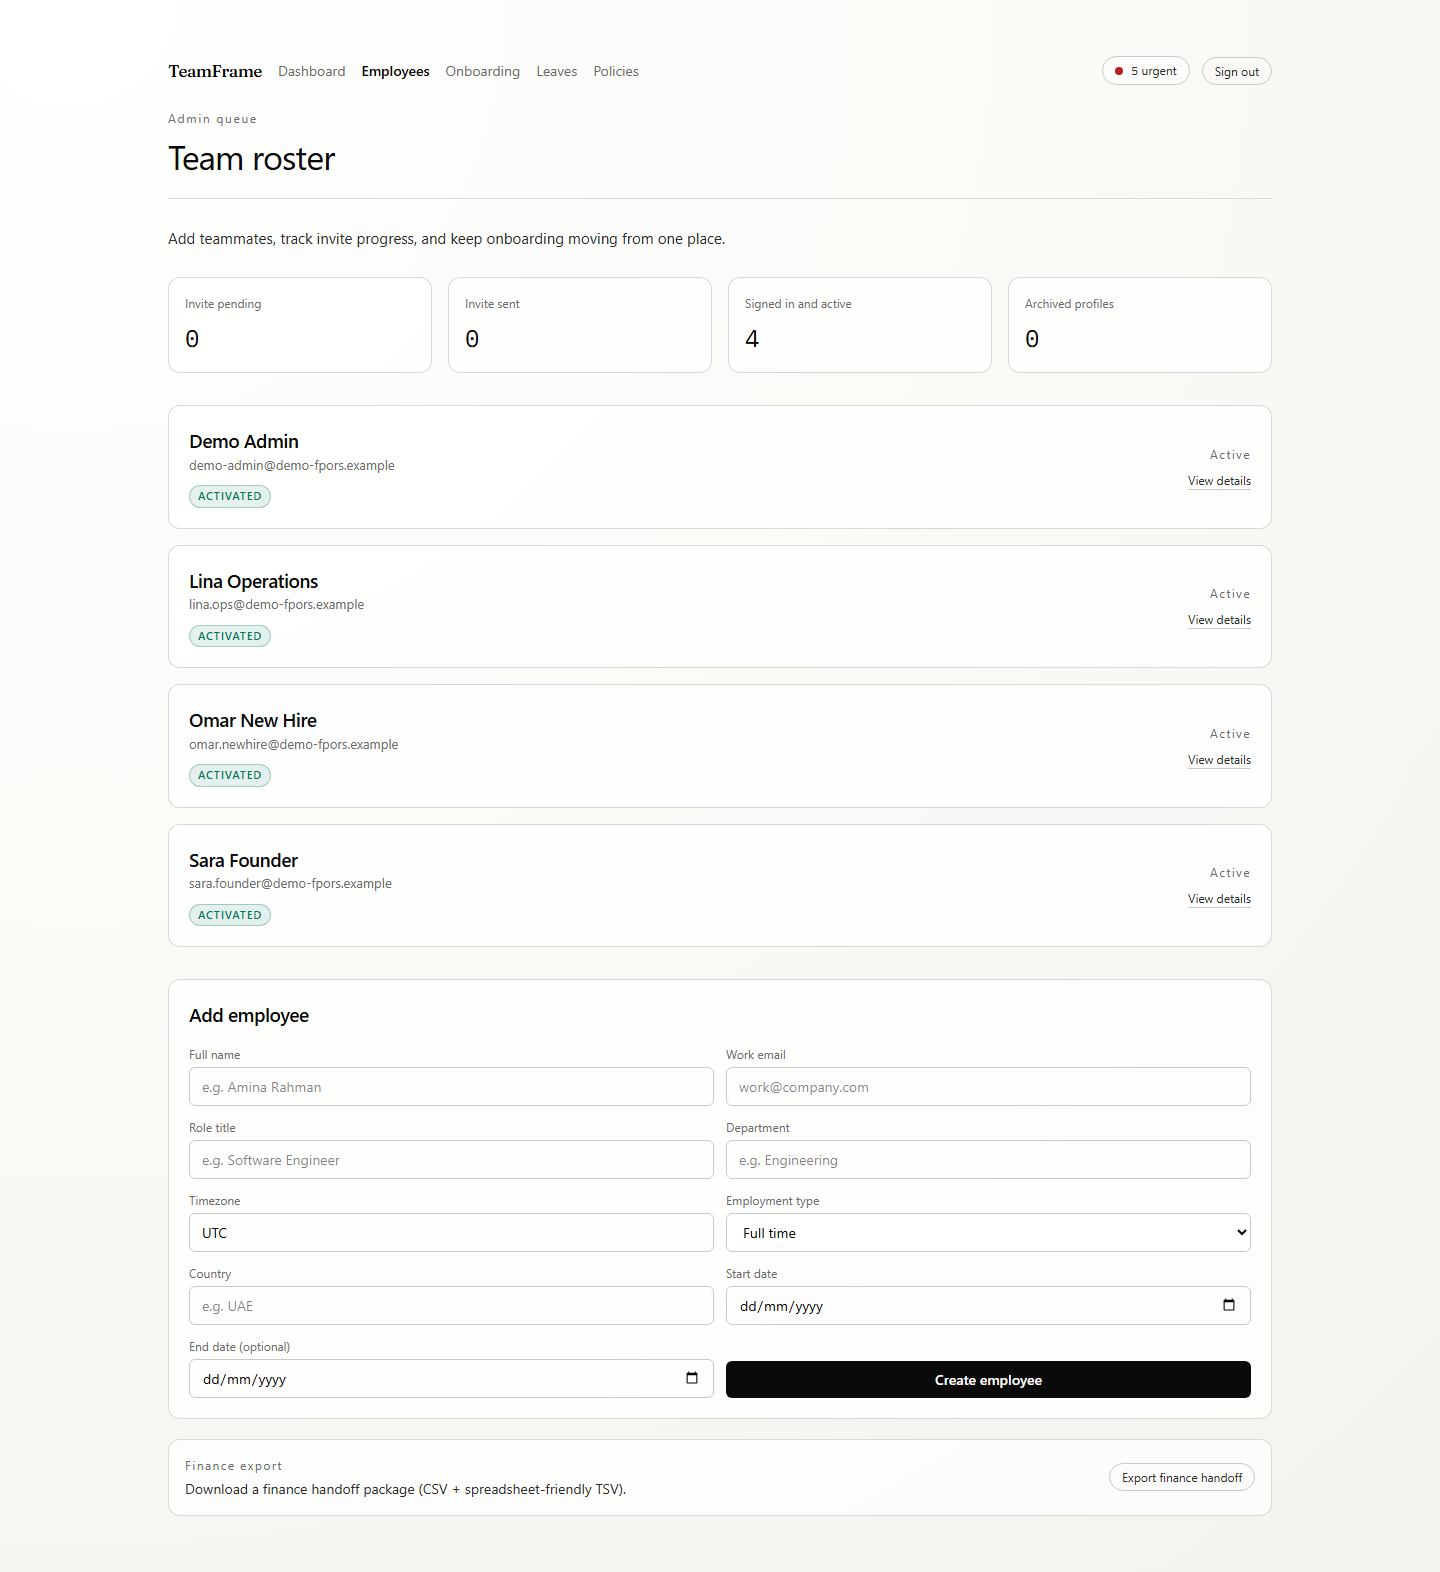
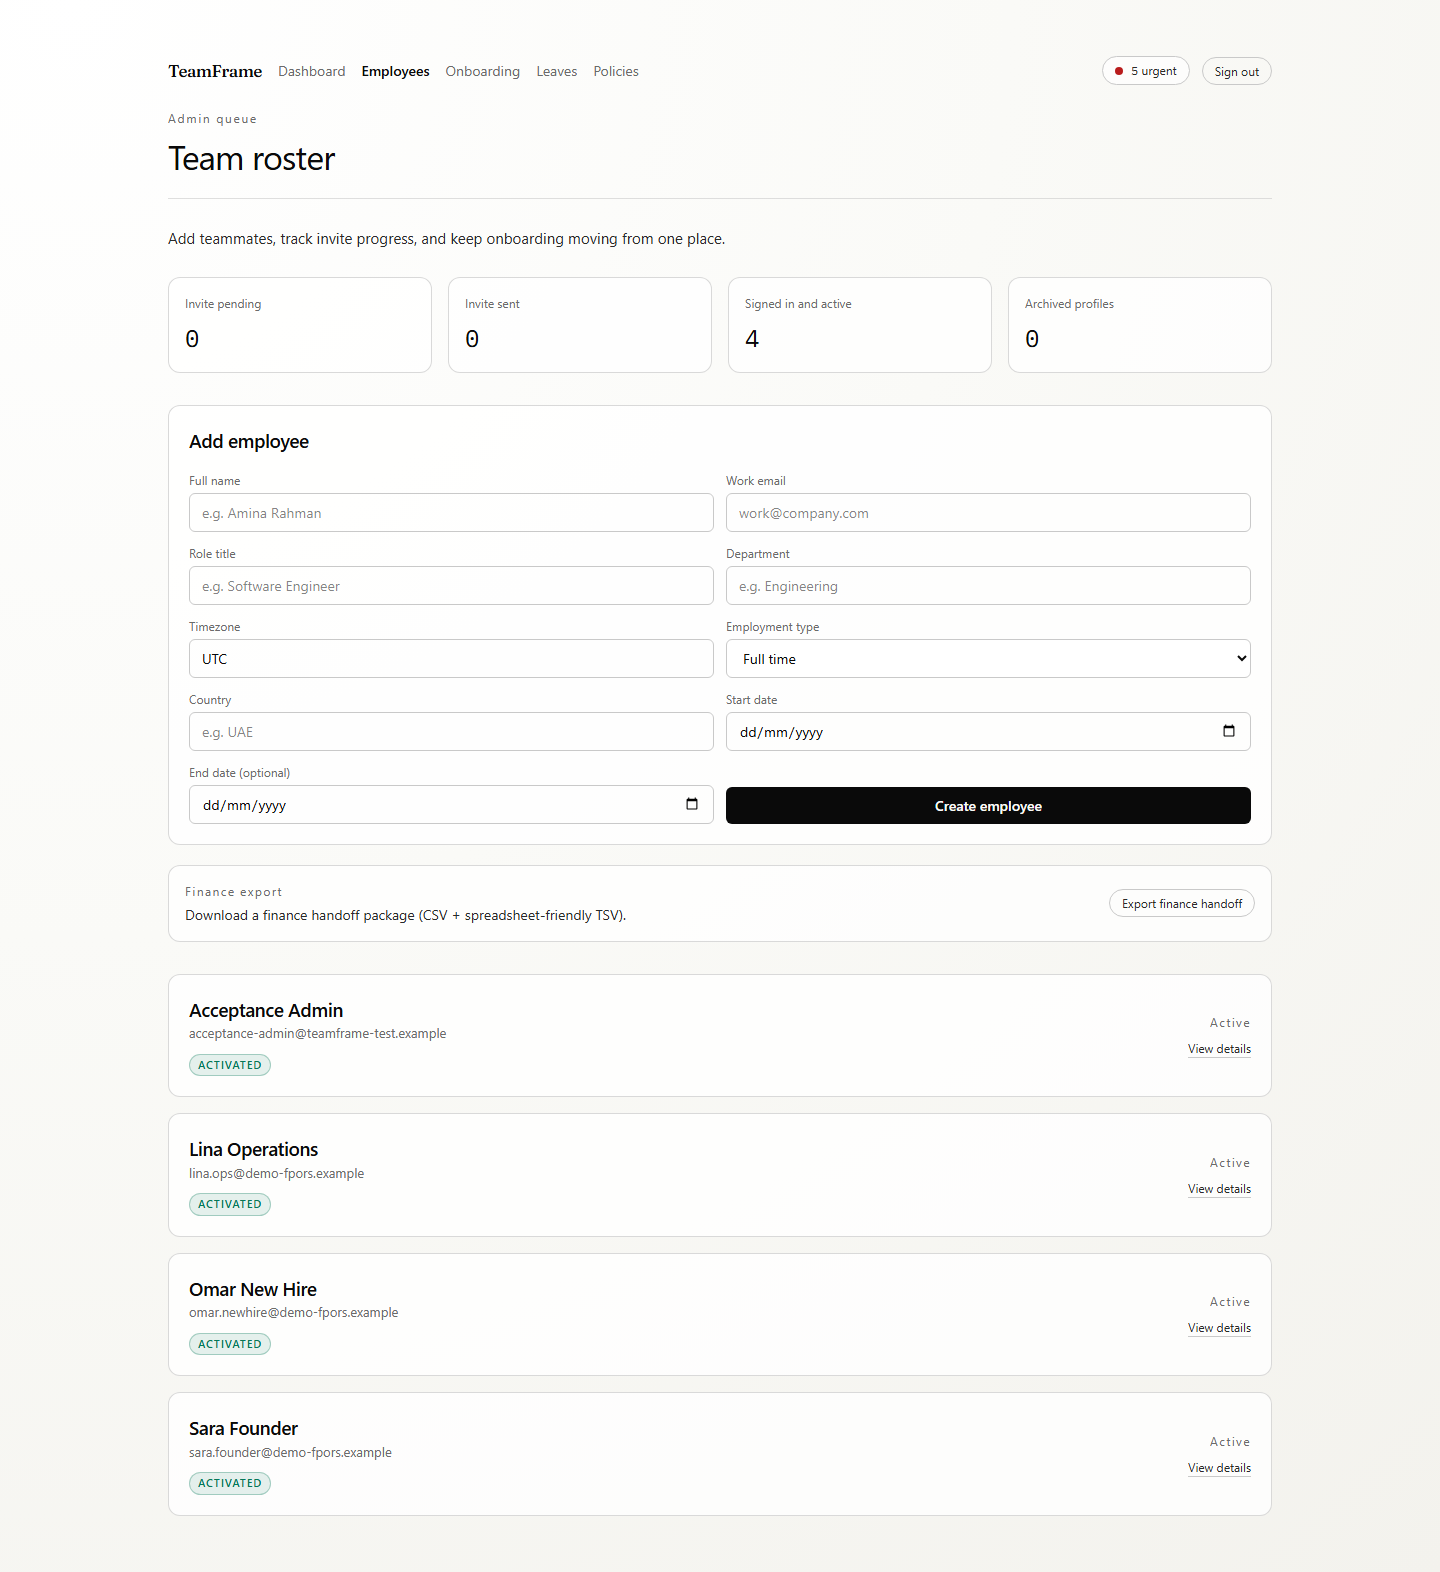
Verify TeamFrame commercial site launch content

diff --git a/index.html b/index.html
@@ -21,7 +21,7 @@
         <div class="hero-grid">
           <div class="hero-copy">
             <p class="eyebrow">Focused HR system</p>
-            <h1>HR administration, owned once.</h1>
+            <h1>HR admin, owned once.</h1>
             <p class="hero-text">
               TeamFrame is a focused HR system for organisations where everyday HR administration has become real work, but there is not necessarily a dedicated HR team.
             </p>
@@ -106,6 +106,18 @@
           <figure>
             <img src="./assets/screenshots/teamframe-employees.png" alt="TeamFrame employee records screen" />
             <figcaption><strong>Employee Records</strong>A structured employee record keeps identity, documents, role and private details in context.</figcaption>
+          </figure>
+          <figure>
+            <img src="./assets/screenshots/teamframe-employee-record.png" alt="Expanded TeamFrame employee record screen" />
+            <figcaption><strong>Employee Record</strong>Individual records expand into the documents, checks and details that need follow-up.</figcaption>
+          </figure>
+          <figure>
+            <img src="./assets/screenshots/teamframe-leave.png" alt="TeamFrame leave management screen" />
+            <figcaption><strong>Leave</strong>Leave requests and approvals stay visible alongside the employee record.</figcaption>
+          </figure>
+          <figure>
+            <img src="./assets/screenshots/teamframe-onboarding.png" alt="TeamFrame onboarding screen" />
+            <figcaption><strong>Onboarding</strong>Joining tasks, documents and completion evidence sit in one operating view.</figcaption>
           </figure>
           <figure>
             <img src="./assets/screenshots/teamframe-policies.png" alt="TeamFrame policies screen" />
